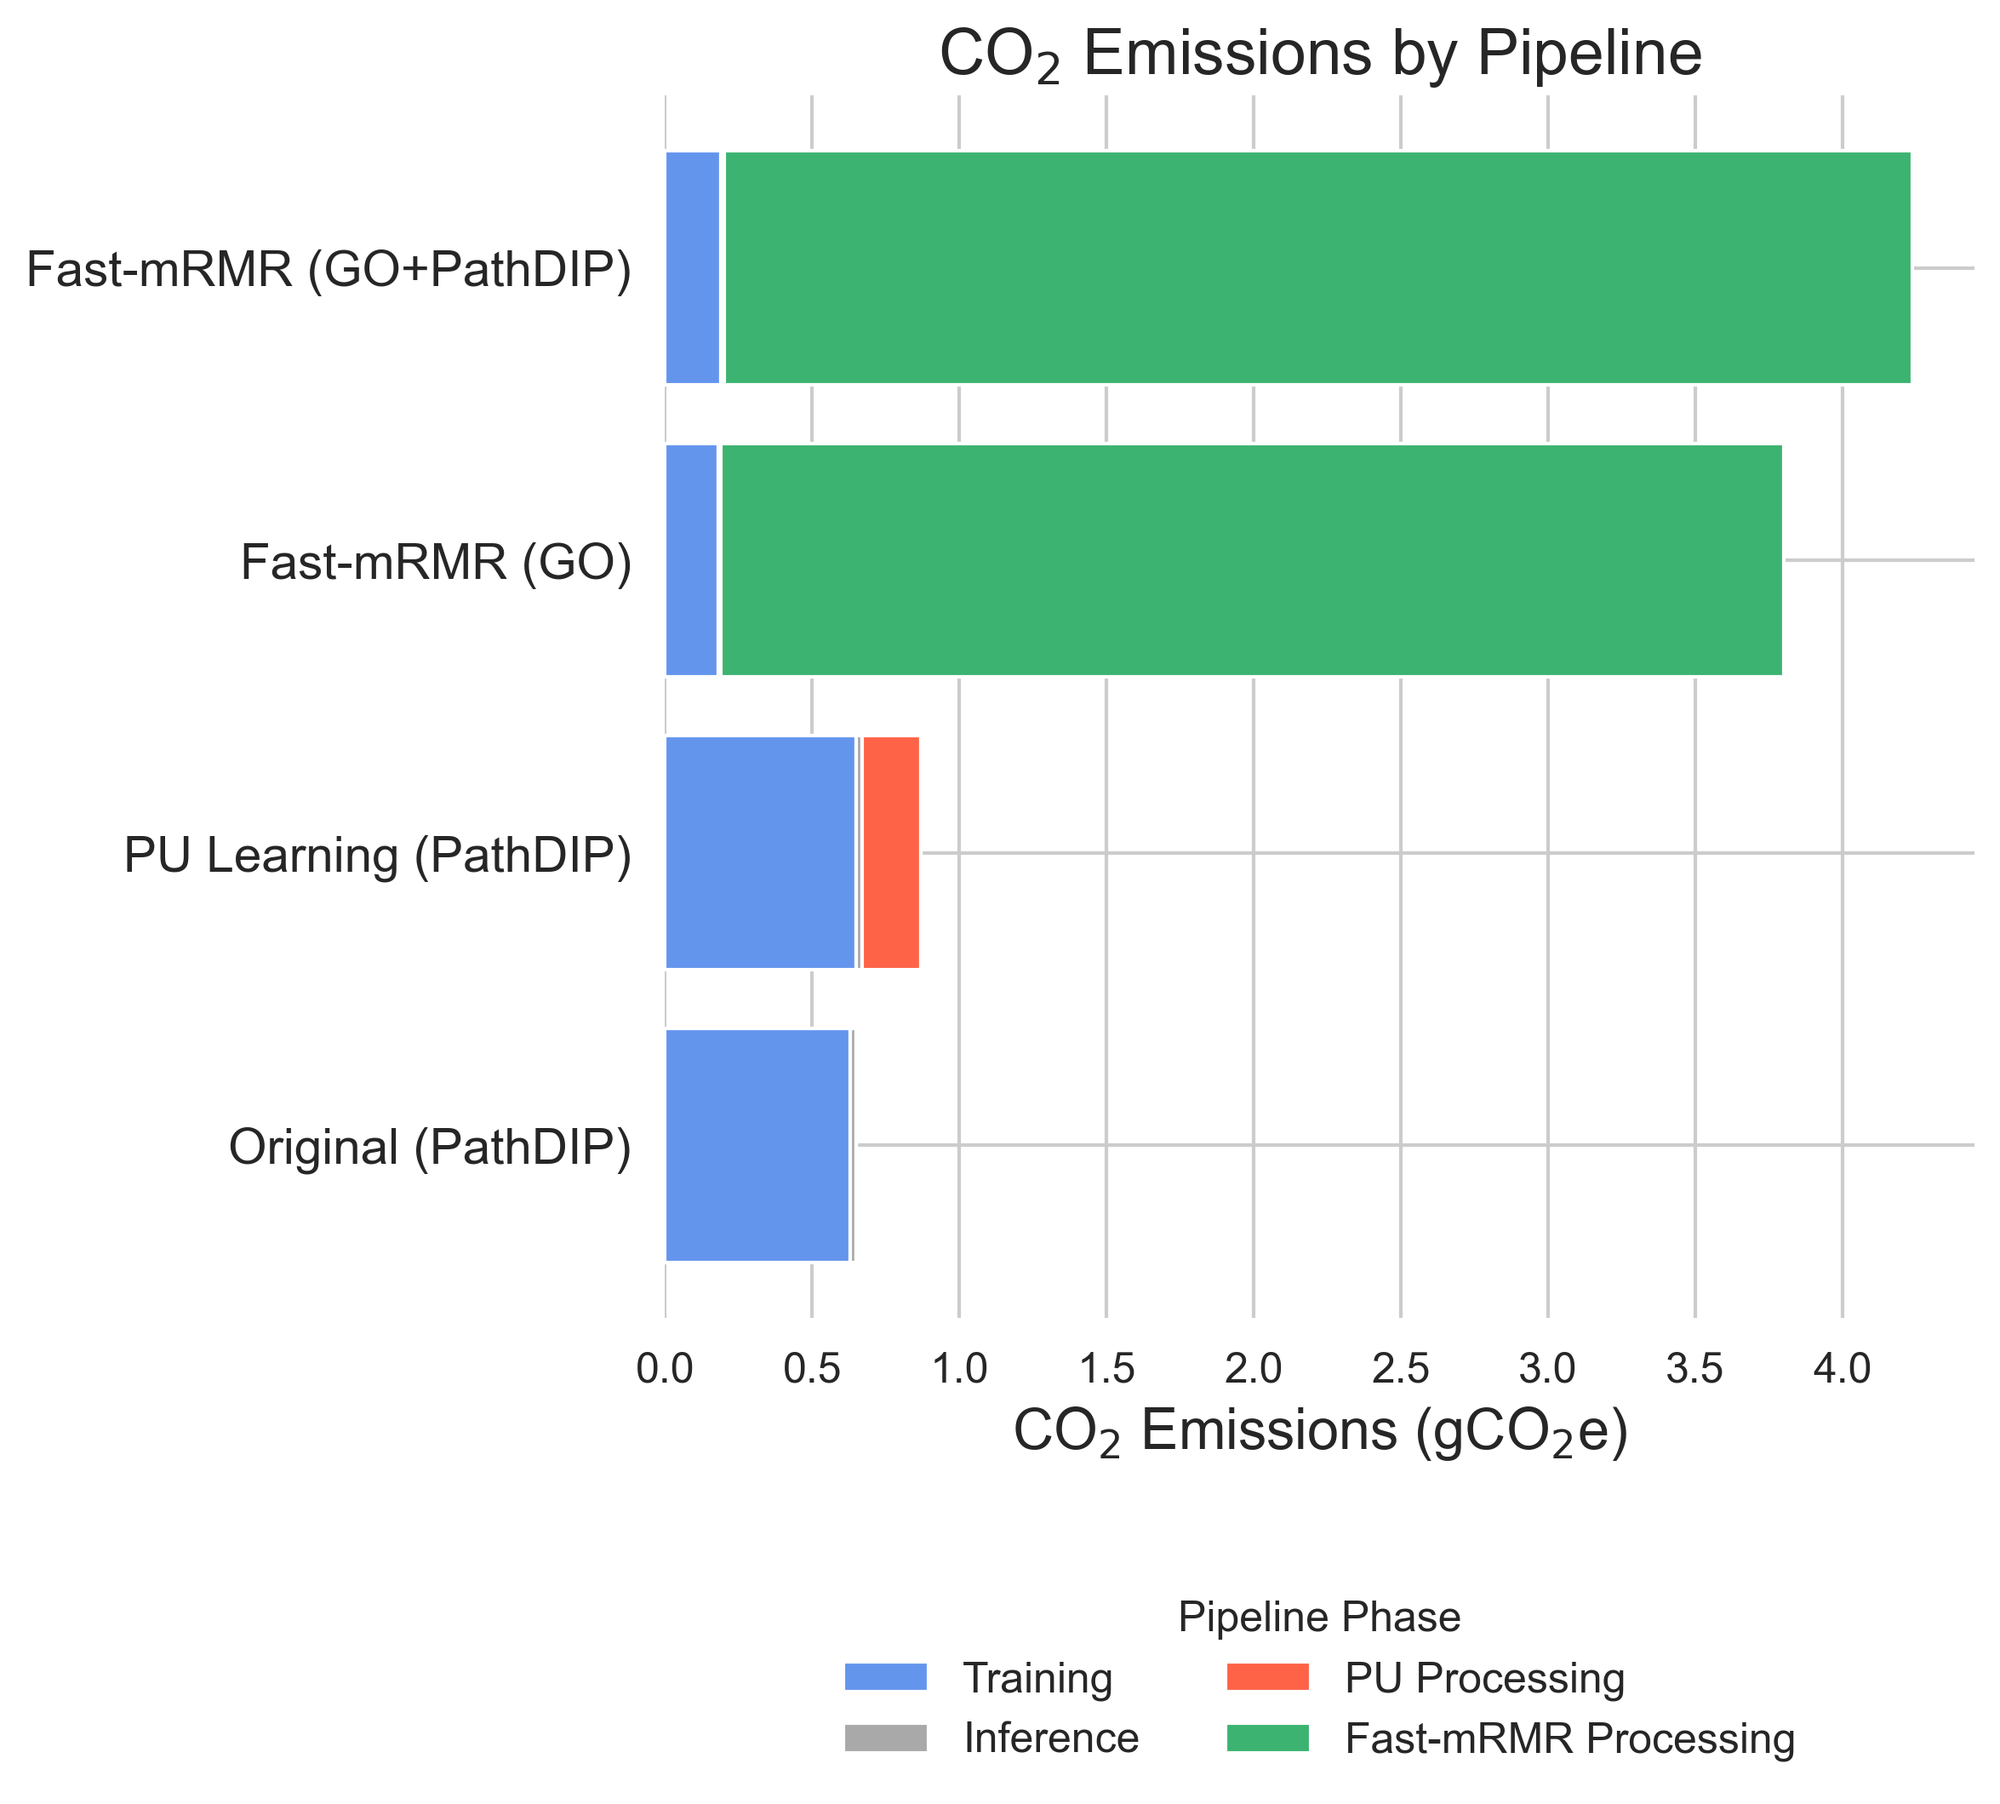
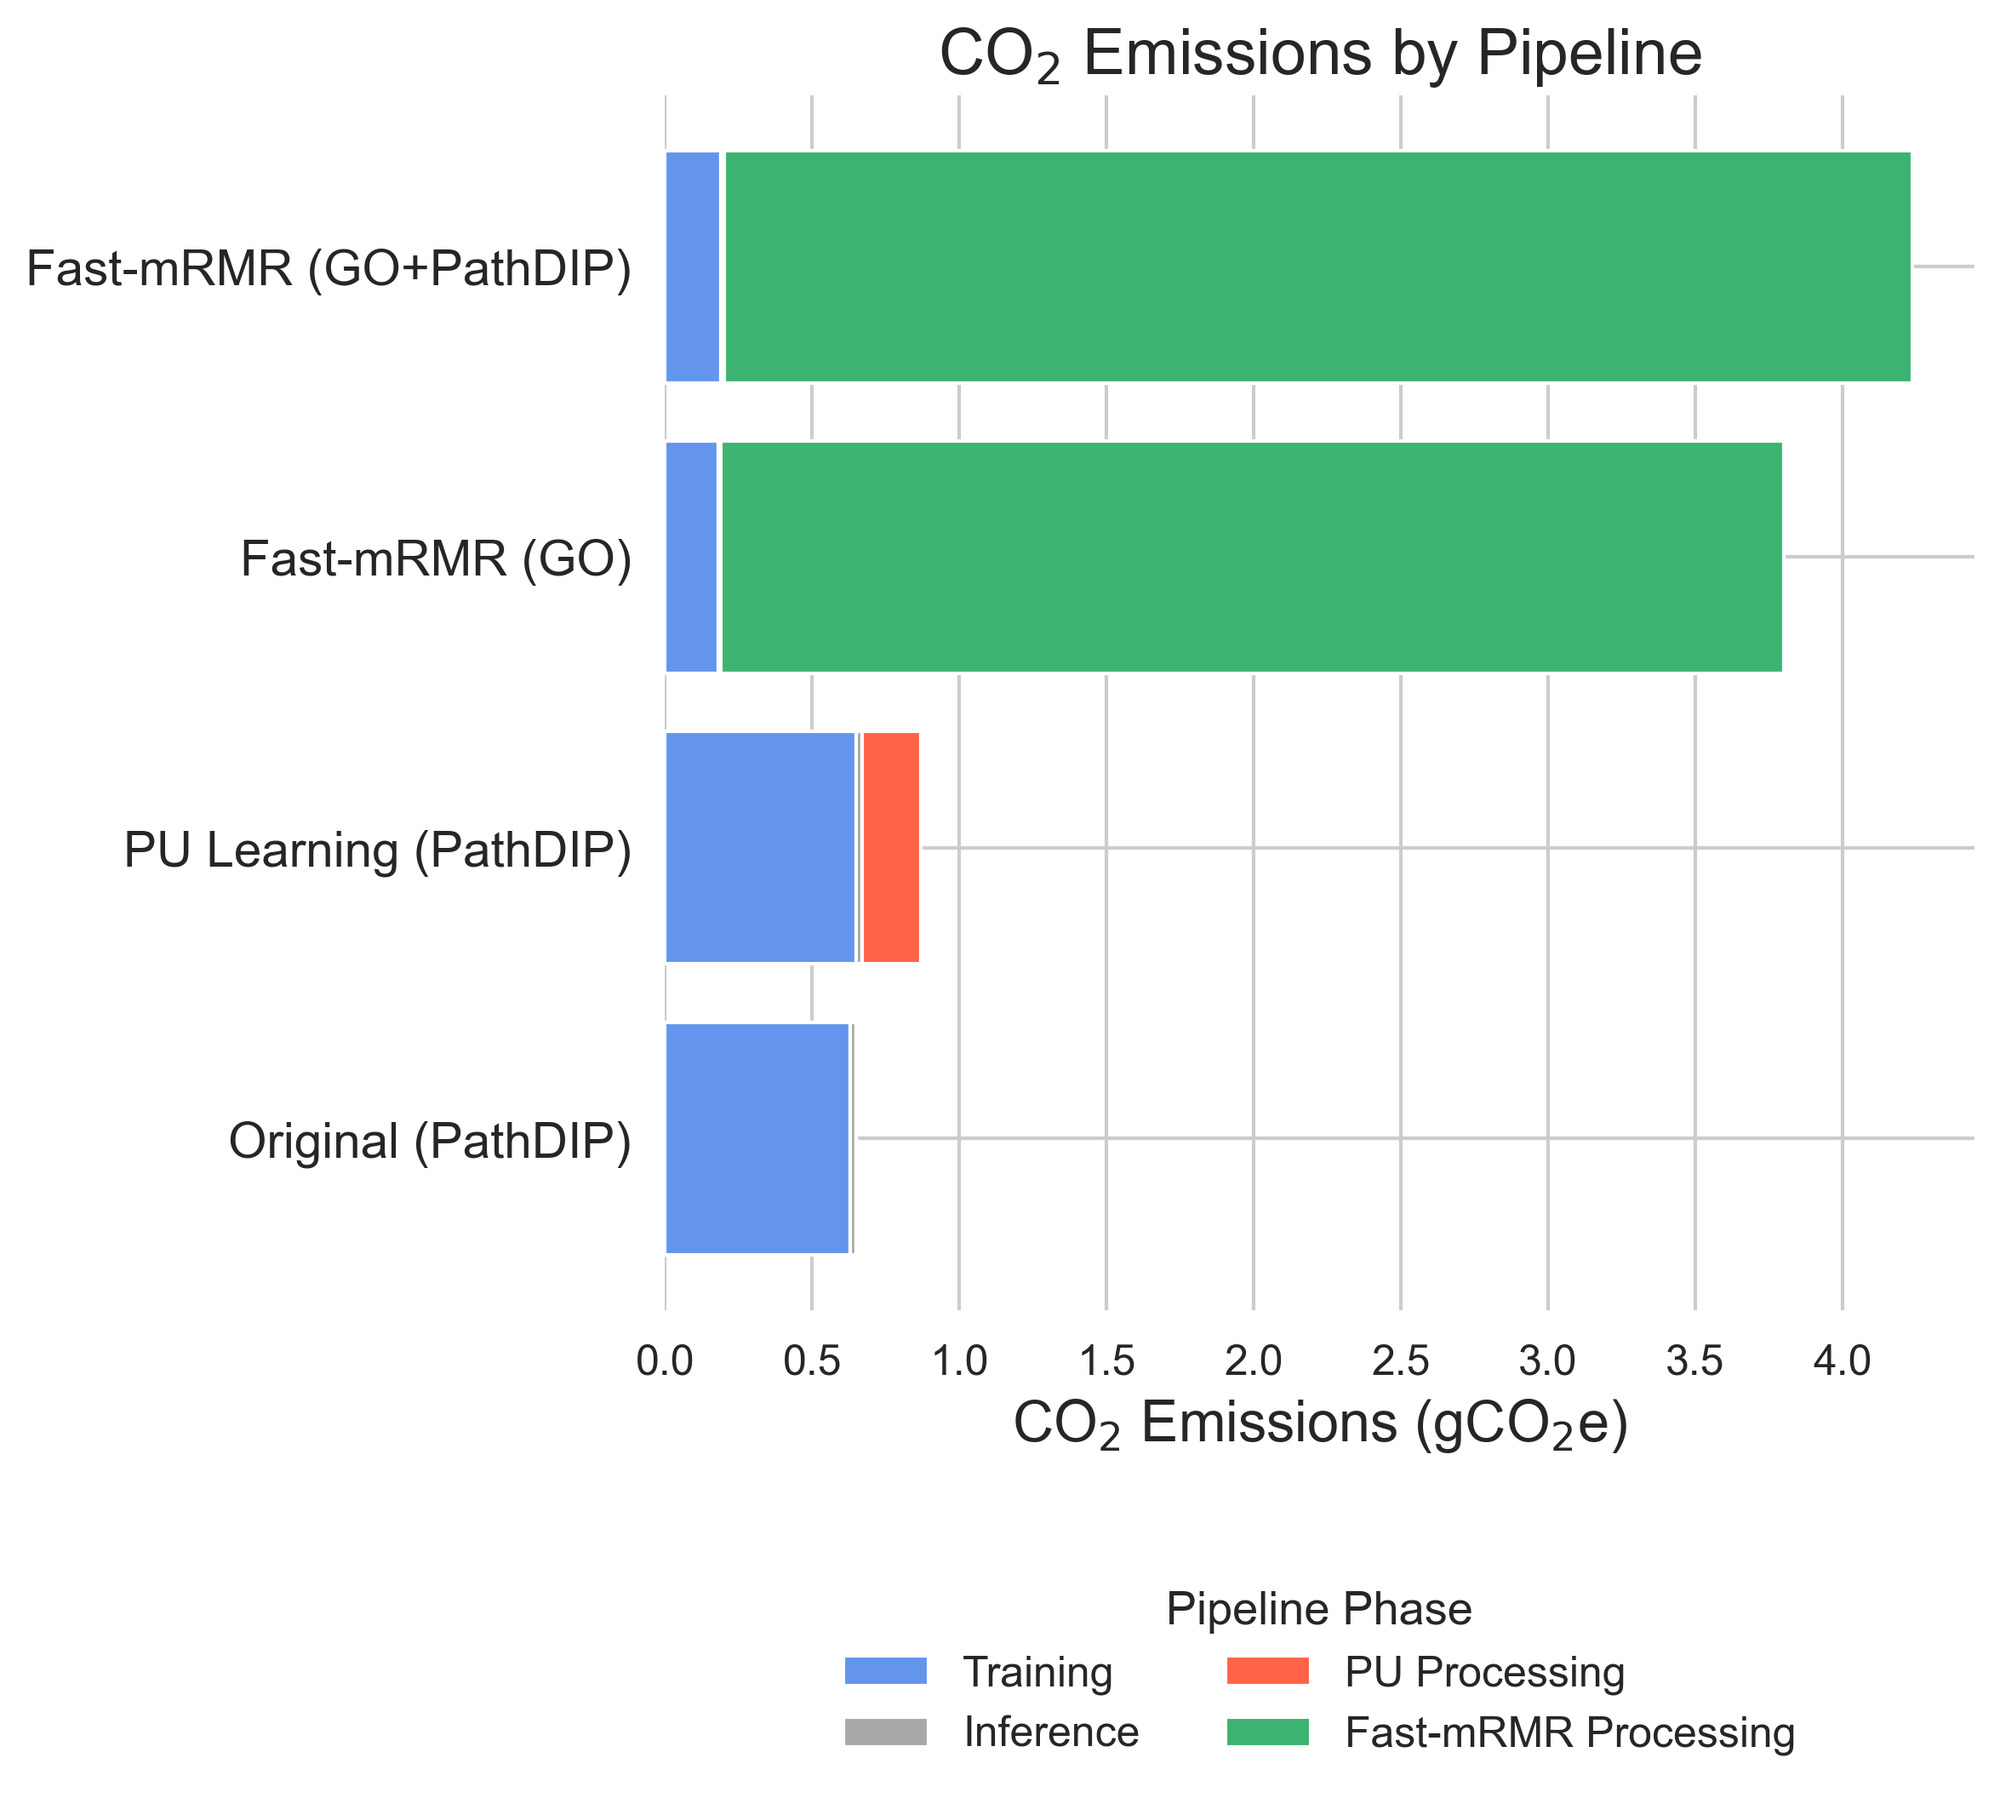
graphics carbon actualizado

diff --git a/metrics_csv/graphics_carbon.py b/metrics_csv/graphics_carbon.py
@@ -1,0 +1,72 @@
+import pandas as pd
+import matplotlib.pyplot as plt
+import seaborn as sns
+import sys
+
+# --- 1. CARGA DE DATOS ---
+try:
+    df = pd.read_csv('./csv_carbon/emissions_data copy.csv')
+    print("Successfully loaded 'emissions_data copy.csv'.")
+except FileNotFoundError:
+    print("Error: 'emissions_data copy.csv' not found.")
+    sys.exit()
+
+# --- 2. PREPARACIÓN DE DATOS ---
+# Limpieza de etiquetas de configuración
+df['Clean_Config'] = (
+    df['Configuration']
+    .str.replace(' (Individual)', '', regex=False)
+    .str.replace(' (Combined)', '', regex=False)
+)
+# Crear etiqueta final
+df['Label'] = df['Method'] + ' (' + df['Clean_Config'] + ')'
+
+# Cálculo del total
+df['Total'] = df[['Training', 'Inference', 'PU_Processing', 'Fast-mRMR_Processing']].sum(axis=1)
+df = df.sort_values('Total', ascending=True)
+
+# --- 3. CONFIGURACIÓN DE ESTILO ---
+sns.set_theme(style="whitegrid")
+fig, ax = plt.subplots(figsize=(8, 9))
+
+phases = ['Training', 'Inference', 'PU_Processing', 'Fast-mRMR_Processing']
+colors = {
+    'Training': '#6495ed',          # azul
+    'Inference': '#a9a9a9',         # gris
+    'PU_Processing': '#ff6347',     # rojo
+    'Fast-mRMR_Processing': '#3cb371'  # verde
+}
+
+# --- 4. DIBUJAR BARRAS APILADAS ---
+left = pd.Series([0.0] * len(df), index=df.index)
+for phase in phases:
+    values = df[phase]
+    ax.barh(df['Label'], values, left=left, color=colors[phase], label=phase.replace('_', ' '))
+    left += values
+
+# --- 5. FORMATO FINAL ---
+ax.set_xlabel('CO$_2$ Emissions (gCO$_2$e)', fontsize=16)
+ax.set_title('CO$_2$ Emissions by Pipeline', fontsize=18)
+ax.set_ylabel('')
+ax.tick_params(axis='y', labelsize=14)
+ax.tick_params(axis='x', labelsize=12)
+
+sns.despine(left=True, bottom=True)
+
+# Leyenda
+ax.legend(
+    ncol=2,
+    bbox_to_anchor=(0.5, -0.2),
+    loc='upper center',
+    frameon=False,
+    title='Pipeline Phase',
+    fontsize=12,
+    title_fontsize=13
+)
+
+# --- 6. GUARDAR GRÁFICO ---
+plt.tight_layout(rect=[0, 0.1, 1, 0.95])
+plt.savefig('./carbon_img/co2_emissions_plot_narrow.png', dpi=300, bbox_inches='tight')
+
+plt.show()
+print("✅ Gráfico guardado con éxito como './carbon_img/co2_emissions_plot_narrow.png'")

diff --git a/metrics_csv/sustainability_plot.py b/metrics_csv/sustainability_plot.py
@@ -65,6 +65,6 @@ plt.text(genes_markers[2] * 1.1, y_min * 1.5, 'Human genome (approx.)', rotation
 
 plt.legend(title='Method', fontsize=10)
 plt.tight_layout()
-plt.savefig('sustainability_analysis_final.png', dpi=300, bbox_inches='tight')
+plt.savefig('.\carbon_img\sustainability_analysis_final.png', dpi=300, bbox_inches='tight')
 
-print("Gráfico 'sustainability_analysis_final.png' guardado con éxito.")
+print("Gráfico '.\carbon_img\sustainability_analysis_final.png' guardado con éxito.")
